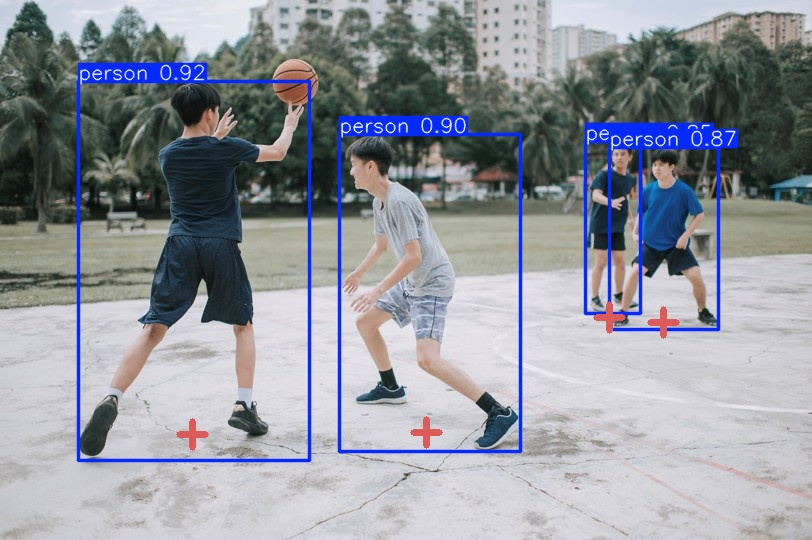
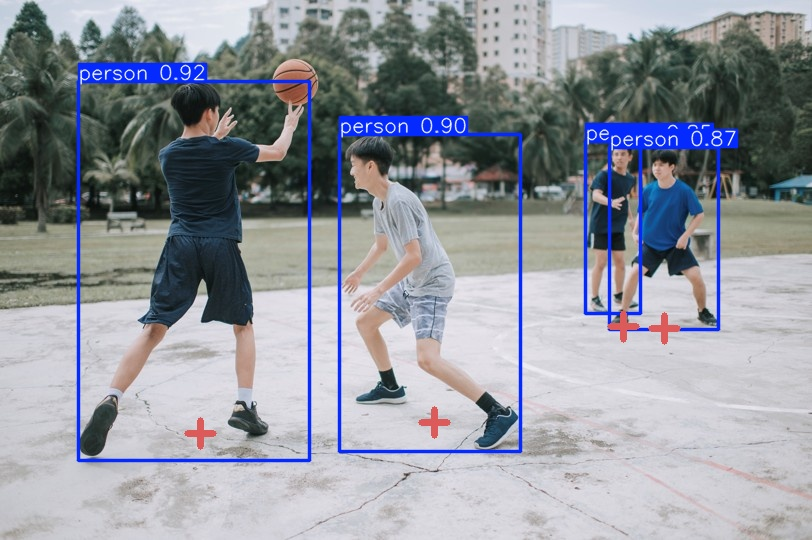
edit inference code

Changed region(s): [[0.7081, 0.563, 0.8621, 0.6519], [0.4926, 0.7407, 0.5542, 0.8296], [0.2155, 0.7704, 0.2771, 0.8296]]

diff --git a/inference.py b/inference.py
@@ -28,7 +28,7 @@ VID_EXTS = {
 DEVICE = torch.device("cuda" if torch.cuda.is_available() else "cpu")
 
 
-def inference(path:str, cfg:dict):    
+def inference(path:str, cfg:dict, save_dir:str):    
     model = PositionEstimator(cfg=cfg, DEVICE=DEVICE)
     yolo = YOLO("yolo11n.pt").to(DEVICE)
 
@@ -41,7 +41,7 @@ def inference(path:str, cfg:dict):
     print("Position Estimation")
     for f, r in enumerate(results):
         start = time.time()
-        results[f].boxes.in_region = crop_input(r.boxes.xyxy, r.orig_img.shape[0:2], pad=200)
+        results[f].boxes.in_region = crop_input(r.boxes.xyxy.to("cpu").detach().numpy(), r.orig_img.shape[0:2], pad=200)
 
         pos = []
         for i, in_region in enumerate(r.boxes.in_region):
@@ -65,7 +65,7 @@ def inference(path:str, cfg:dict):
         height, width = results[0].orig_shape
         fourcc = cv2.VideoWriter_fourcc(*"mp4v")  # 出力形式 (mp4)
 
-        output_path = os.path.join("inference", f"{os.path.splitext(os.path.basename(path))[0]}.mp4")
+        output_path = os.path.join(save_dir, f"{os.path.splitext(os.path.basename(path))[0]}.mp4")
         out = cv2.VideoWriter(output_path, fourcc, fps, (width, height))
         for f, r in enumerate(results):
             frame = r.plot()
@@ -80,7 +80,7 @@ def inference(path:str, cfg:dict):
         print(f"Result has been saved to: {output_path}")
 
     elif is_image(path):
-        output_path = os.path.join("inference", f"{os.path.splitext(os.path.basename(path))[0]}.jpg")
+        output_path = os.path.join(save_dir, f"{os.path.splitext(os.path.basename(path))[0]}.jpg")
         frame = results[0].plot()
         for i in range(results[0].boxes.cls.shape[0]):
             pos = results[0].boxes.position[i].astype(np.int16)
@@ -116,7 +116,7 @@ if __name__ == "__main__":
 
     cfg = load_config(args.config)
 
-    if not os.path.isdir("inference"):
-        os.makedirs("inference")
+    if not os.path.isdir("runs/inference"):
+        os.makedirs("runs/inference")
 
-    inference(path=args.input_path, cfg=cfg)
+    inference(path=args.input_path, cfg=cfg, save_dir="runs/inference")
